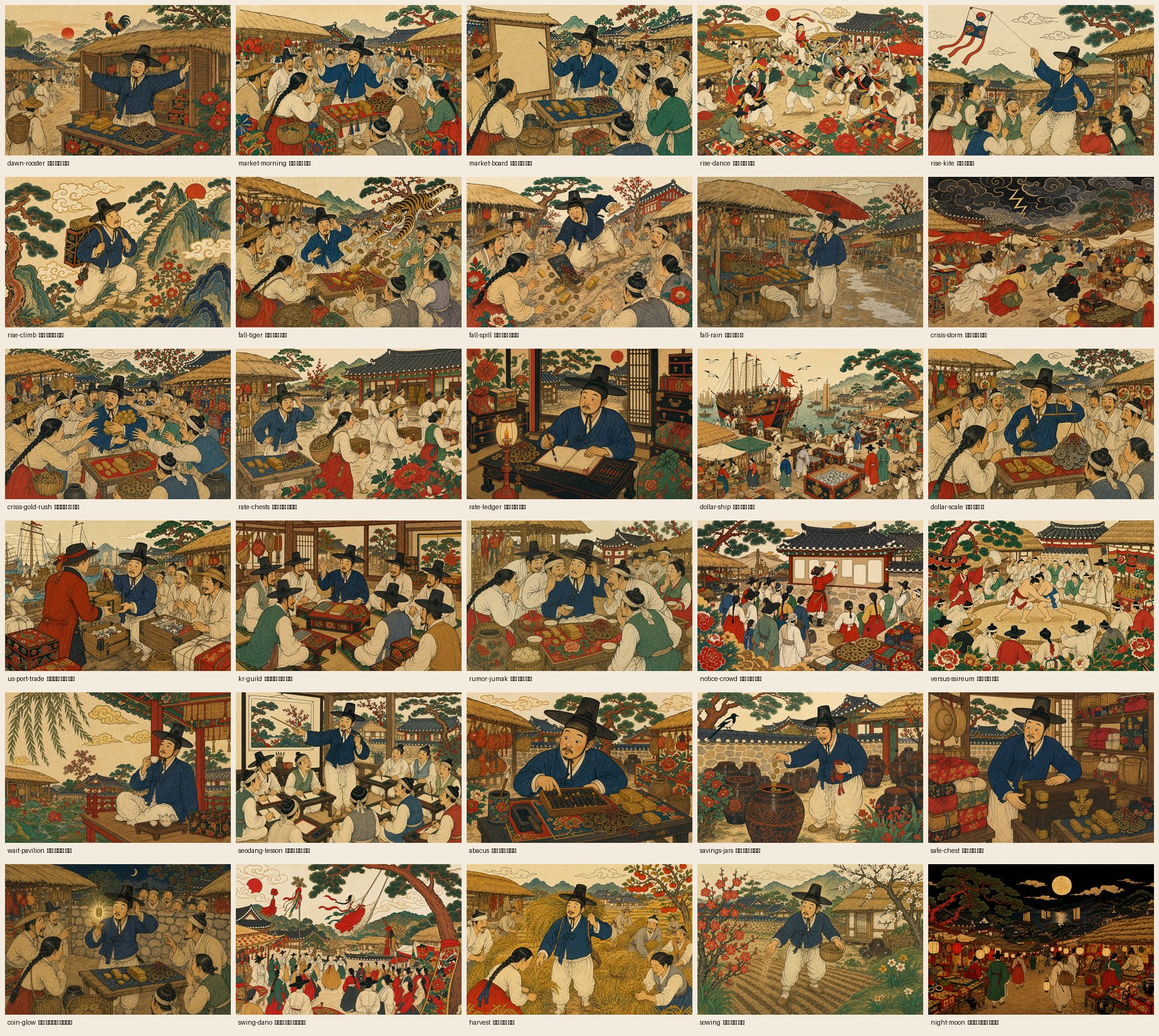
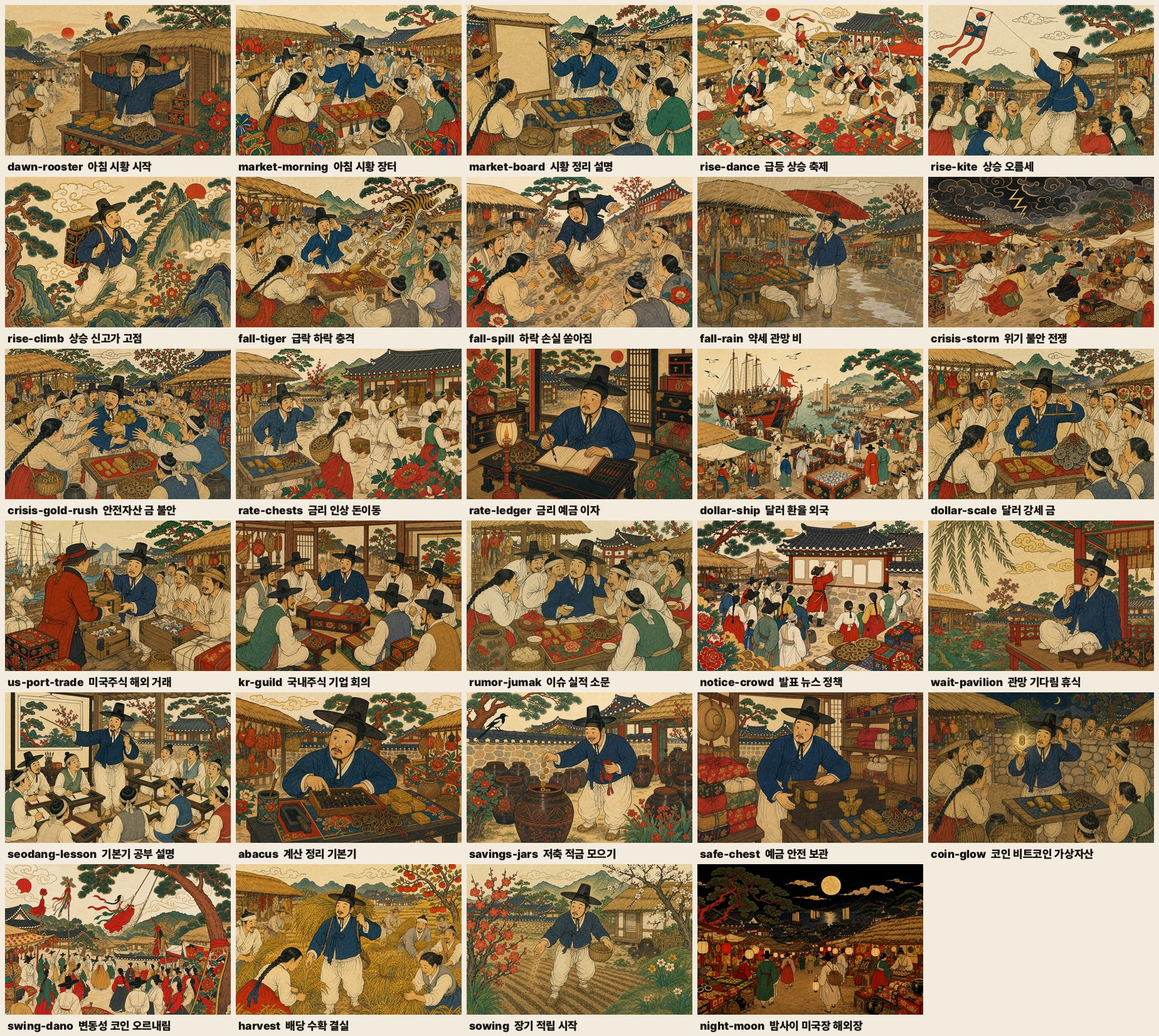
그림 창고: 씨름 그림이 일본 스모처럼 나와 다시 그림(한국 씨름 묘사 명시), 한눈에 보기 글꼴 (#211)
Claude-Session: https://claude.ai/code/session_01HNJTaMMcXgMjQhv2iW7WGc

diff --git a/content/art_library.py b/content/art_library.py
@@ -17,7 +17,7 @@ from pathlib import Path
 
 import requests
 import yaml
-from PIL import Image, ImageDraw
+from PIL import Image, ImageDraw, ImageFont
 
 from market.common import ROOT
 from .post_art import STYLE
@@ -74,10 +74,11 @@ def sheet() -> None:
     rows = (len(have) + cols - 1) // cols
     c = Image.new("RGB", (cols * (w + 8) + 8, rows * (h + 34) + 8), (243, 235, 221))
     d = ImageDraw.Draw(c)
+    f = ImageFont.truetype(str(ROOT / "assets" / "fonts" / "Pretendard-Black.otf"), 18)
     for i, s in enumerate(have):
         x, y = 8 + (i % cols) * (w + 8), 8 + (i // cols) * (h + 34)
         c.paste(Image.open(LIB / f"{s['id']}.jpg").resize((w, h), Image.LANCZOS), (x, y))
-        d.text((x + 4, y + h + 6), f"{s['id']}  {' '.join(s['tags'][:3])}", fill=(22, 20, 18))
+        d.text((x + 4, y + h + 6), f"{s['id']}  {' '.join(s['tags'][:3])}", fill=(22, 20, 18), font=f)
     c.save(LIB / "0-한눈에.jpg", quality=85)
 
 
